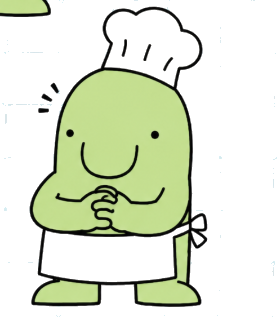
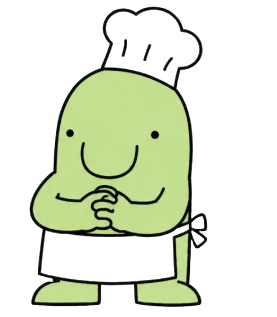
Commit by Oscar: Added README and changed Pictures that weren't properly cut

diff --git a/README.md b/README.md
@@ -1,0 +1,134 @@
+# Chef AI 🍝
+
+> An AI-powered recipe assistant with an Italian trattoria aesthetic. Tell it what's in your fridge and it invents tonight's dinner.
+
+Built with **Vanilla JavaScript** and **Vite**, powered by the **OpenRouter API** (free models supported).
+
+---
+
+## Overview
+
+Chef AI is a conversational web app where an animated chef mascot generates personalized recipes based on user-provided ingredients. Recipes are returned as structured JSON and rendered as handwritten-style paper notes, each color-coded by difficulty level.
+
+The app uses OpenRouter as the AI gateway, giving access to multiple free LLM models without requiring separate API keys per provider.
+
+---
+
+## Features
+
+- 🤖 **AI-generated recipes** from any list of ingredients via OpenRouter
+- 🎭 **Animated chef mascot** — three states: idle, cooking, happy — synced to agent activity
+- 📋 **Recipe cards** styled as paper notes pinned with washi tape
+- 🎨 **Difficulty color-coding** — Semplice (green), Media (olive), Da chef (tomato)
+- 🔄 **Multi-model support** — switch between free models from the toolbar
+- 💾 **API Key persistence** via `localStorage`
+- 🛡 **Robust error handling** — covers null content, empty strings, and reasoning-model edge cases (e.g. models that return `reasoning_content` instead of `content`)
+
+---
+
+## Tech Stack
+
+| Layer | Technology |
+|---|---|
+| Bundler | Vite 5 |
+| Language | JavaScript (ES Modules, no framework) |
+| Styling | CSS (custom properties, Grid, keyframe animations) |
+| AI Gateway | OpenRouter API (`/v1/chat/completions`) |
+| Storage | `localStorage` |
+
+---
+
+## Project Structure
+
+```
+chef-ai/
+├── index.html          # App shell, model selector, API key input
+├── package.json
+└── src/
+    ├── main.js         # All app logic (AI calls, rendering, i18n, state)
+    ├── style.css       # Trattoria theme, animations, recipe cards
+    └── assets/
+        ├── chef-idle.png       # Mascot — waiting state
+        ├── chef-cooking.png    # Mascot — thinking state
+        └── chef-happy.png      # Mascot — recipes ready state
+```
+
+---
+
+## Getting Started
+
+### Prerequisites
+
+- Node.js 18+
+- A free [OpenRouter](https://openrouter.ai/keys) API key (no credit card required)
+
+### Installation
+
+```bash
+# 1. Install dependencies
+npm install
+
+# 2. Start the dev server
+npm run dev
+```
+
+Open [http://localhost:5173](http://localhost:5173), paste your OpenRouter API key, and start cooking.
+
+### Build for production
+
+```bash
+npm run build
+```
+
+Output goes to `dist/`.
+
+---
+
+## Supported Models (May 2026)
+
+All models below are available for free on OpenRouter:
+
+| Label | Model ID |
+|---|---|
+| auto ✦ | `openrouter/free` |
+| deepseek-v4-flash | `deepseek/deepseek-v4-flash:free` |
+| llama-3.3-70b | `meta-llama/llama-3.3-70b-instruct:free` |
+| gpt-oss-120b | `openai/gpt-oss-120b:free` |
+| gpt-oss-20b | `openai/gpt-oss-20b:free` |
+| gemma-4-31b | `google/gemma-4-31b-it:free` |
+
+> **Tip:** Use `openrouter/free` (auto) when unsure — it routes to the best available free model automatically.
+
+---
+
+## How It Works
+
+1. User enters a list of ingredients in the chat input.
+2. `main.js` sends the input to the OpenRouter API with a structured system prompt that requests a JSON response containing recipe cards.
+3. The API response is parsed by `tryJSON()`, which extracts a valid JSON block even if the model wraps it in extra prose.
+4. Each recipe card is rendered as a styled `<div>` with ingredient list, steps, difficulty badge, and time estimate.
+5. Tapping a card expands it into a full step-by-step view.
+
+### Error Handling Notes
+
+- Models that return an empty `content` field (e.g. reasoning models) are handled by falling back to `reasoning_content`.
+- `tryJSON()` guards against `null` and non-string values before calling `.match()`.
+- HTTP errors (401, 429, 402) are caught and shown as user-friendly status messages.
+
+---
+
+## Configuration
+
+No `.env` file needed. The only runtime input is the OpenRouter API key, entered directly in the UI and stored in `localStorage` under the key `chef-ai-key`.
+
+The API endpoint is hardcoded in `main.js`:
+
+```js
+const ENDPOINT = "https://openrouter.ai/api/v1/chat/completions";
+```
+
+---
+
+## License
+
+MIT
